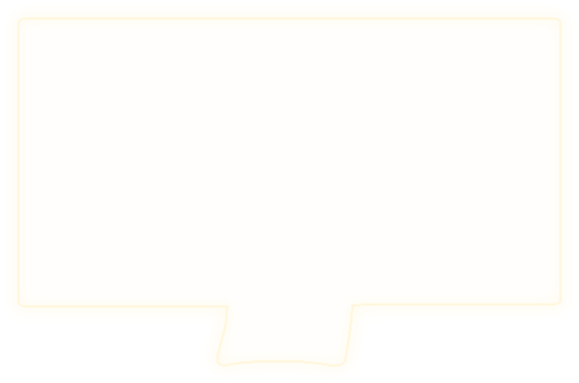
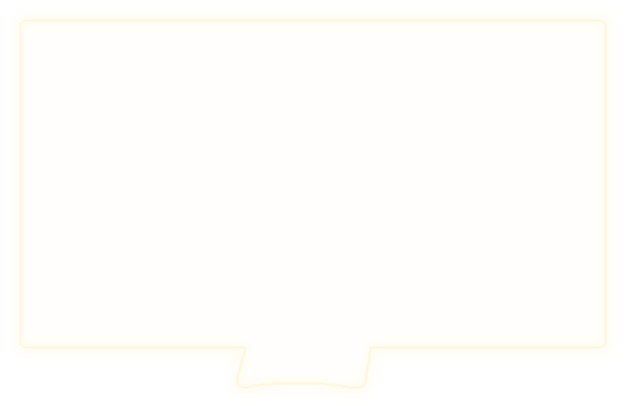
Pin board outline follows the board's outer black frame plus the paper hanging below it

Changed region(s): [[0.6218, 0.8329, 0.9637, 0.8616], [0.0311, 0.8329, 0.3731, 0.8616]]

diff --git a/game/outlines.js b/game/outlines.js
@@ -1,2 +1,2 @@
 // Viền sáng ôm theo hình từng đồ vật, tách tự động từ ảnh phòng (GrabCut). Tọa độ góc trên trái theo hệ 1920x1080.
-const OUTLINE = {"hall_0":[261,218],"hall_1":[626,167],"hall_2":[1086,218],"hall_3":[1475,82],"hallOffice_0":[698,148],"desk_0":[172,72],"desk2_0":[53,146],"desk2_1":[1029,484],"office_0":[213,713],"office_1":[544,720],"office_2":[1014,714],"office_3":[1322,714],"office_4":[1073,436],"corner_0":[264,88],"corner_1":[969,83],"corner_2":[1139,589],"hallWater_0":[1188,628],"hallKPI_0":[6,62],"hallKPI_1":[840,52],"boss_0":[29,306],"boss_1":[1318,597],"bossRight_0":[700,39],"cellDoor_0":[420,142],"cellDoor_1":[1379,275],"cells_0":[959,98],"cells_1":[737,358],"cells_2":[608,457],"cells_3":[320,523],"hall_4":[1228,166]};
+const OUTLINE = {"hall_0":[261,218],"hall_1":[626,167],"hall_2":[1086,218],"hall_3":[1475,82],"hallOffice_0":[698,148],"desk_0":[172,72],"desk2_0":[53,146],"desk2_1":[1029,484],"office_0":[213,713],"office_1":[544,720],"office_2":[1014,714],"office_3":[1322,714],"office_4":[1073,436],"corner_0":[244,66],"corner_1":[969,83],"corner_2":[1139,589],"hallWater_0":[1188,628],"hallKPI_0":[6,62],"hallKPI_1":[840,52],"boss_0":[29,306],"boss_1":[1318,597],"bossRight_0":[700,39],"cellDoor_0":[420,142],"cellDoor_1":[1379,275],"cells_0":[959,98],"cells_1":[737,358],"cells_2":[608,457],"cells_3":[320,523],"hall_4":[1228,166]};

diff --git a/game/game.js b/game/game.js
@@ -9,7 +9,7 @@ const cv = $('#cv'), ctx = cv.getContext('2d');
 const stage = $('#stage');
 const clamp = (v, a, b) => Math.max(a, Math.min(b, v));
 // ASSET_V: đổi mỗi khi thay ảnh/âm thanh trùng tên, để trình duyệt không dùng lại bản cũ trong cache
-const ASSET_V = '20261110c';
+const ASSET_V = '20261110d';
 const A = p => 'assets/v2/' + p + '?v=' + ASSET_V;
 
 /* ---------------- Stage scaling (sharp on Retina) ---------------- */
@@ -192,7 +192,7 @@ const VIEWS = {
     { x: 1080, y: 458, w: 447, h: 218, label: 'Bảng ghim và đồng hồ', go: 'corner' },
   ] },
   corner: { nav: [AR(228, 608, 180, 'office', 'Quay lại văn phòng'), AR(1041, 464, -68, () => collect('clock'), 'Đồng hồ', { cond: () => !has('clock') }), AR(1250, 848, -29, () => collect('paper'), 'Thùng rác', { cond: () => !has('paper') })], spots: [
-    { x: 268, y: 100, w: 576, h: 350, label: 'Bảng ghim', act: () => dialog([L.board]) },
+    { x: 268, y: 90, w: 578, h: 361, label: 'Bảng ghim', act: () => dialog([L.board]) },
     { x: 993, y: 107, w: 275, h: 245, label: 'Đồng hồ', shape: 'ellipse', act: () => collect('clock') },
     { x: 1150, y: 605, w: 300, h: 380, label: 'Thùng rác', act: () => collect('paper') },
   ] },

diff --git a/game/style.css b/game/style.css
@@ -20,9 +20,9 @@ button{font-family:inherit;cursor:pointer}
 /* 3 tấm bảng gỗ nhóm vẽ (source/icon): tiêu đề, 7 ô "?" và thanh nghi ngờ có sẵn trong hình (925x450) */
 #obj,#inv{position:absolute;aspect-ratio:925/450;background:center/100% 100% no-repeat;filter:drop-shadow(5px 6px 0 rgba(0,0,0,.45))}
 #obj .lbl{display:none}
-#obj{left:10px;top:2px;width:330px;background-image:url(assets/v2/ui/hud_obj.png?v=20261110c)}
+#obj{left:10px;top:2px;width:330px;background-image:url(assets/v2/ui/hud_obj.png?v=20261110d)}
 #obj-text{position:absolute;left:15%;right:8%;top:44%;bottom:10%;font-weight:700;font-size:15px;line-height:1.2;color:#2b1d0e;display:flex;align-items:center}
-#inv{left:795px;top:2px;width:330px;background-image:url(assets/v2/ui/hud_inv.png?v=20261110c)}
+#inv{left:795px;top:2px;width:330px;background-image:url(assets/v2/ui/hud_inv.png?v=20261110d)}
 .slot{position:absolute;top:52.44%;width:9.51%;height:19.56%;display:flex;align-items:center;justify-content:center}
 .slot.full{background:#f6e7c1;border:2px solid #4a2c12;border-radius:3px;overflow:hidden}
 .slot img{max-width:88%;max-height:88%;object-fit:contain}

diff --git a/game/index.html b/game/index.html
@@ -25,7 +25,7 @@
 <link rel="preconnect" href="https://fonts.googleapis.com">
 <link rel="preconnect" href="https://fonts.gstatic.com" crossorigin>
 <link href="https://fonts.googleapis.com/css2?family=Be+Vietnam+Pro:wght@400;600;800&family=VT323&display=swap" rel="stylesheet">
-<link rel="stylesheet" href="style.css?v=20261110c">
+<link rel="stylesheet" href="style.css?v=20261110d">
 </head>
 <body>
 <div id="stage">
@@ -61,7 +61,7 @@
   <div id="fade"></div>
   <div id="loading"><div>ĐANG TẢI</div><div id="load-bar"><div id="load-fill"></div></div></div>
 </div>
-<script src="outlines.js?v=20261110c"></script>
-<script src="game.js?v=20261110c"></script>
+<script src="outlines.js?v=20261110d"></script>
+<script src="game.js?v=20261110d"></script>
 </body>
 </html>
